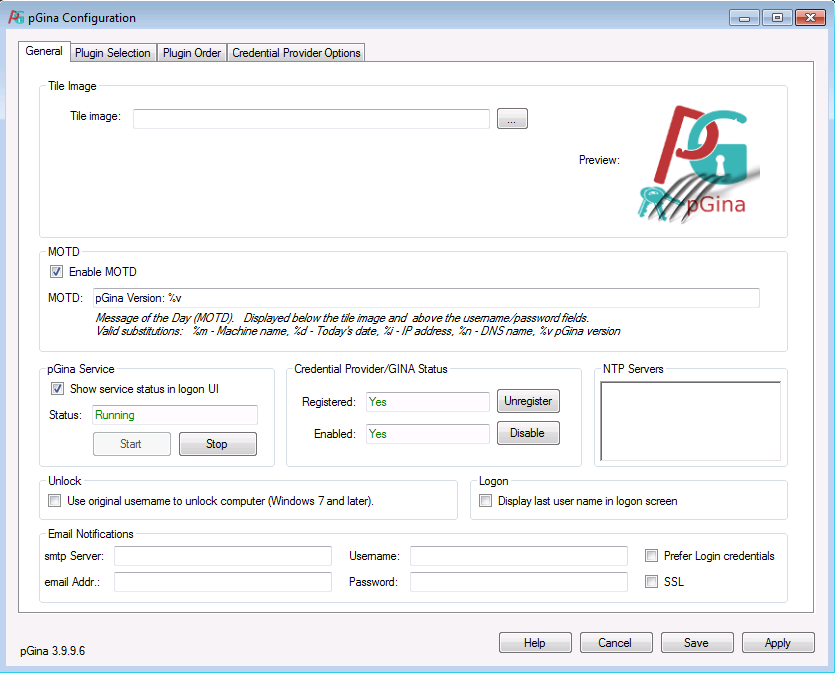
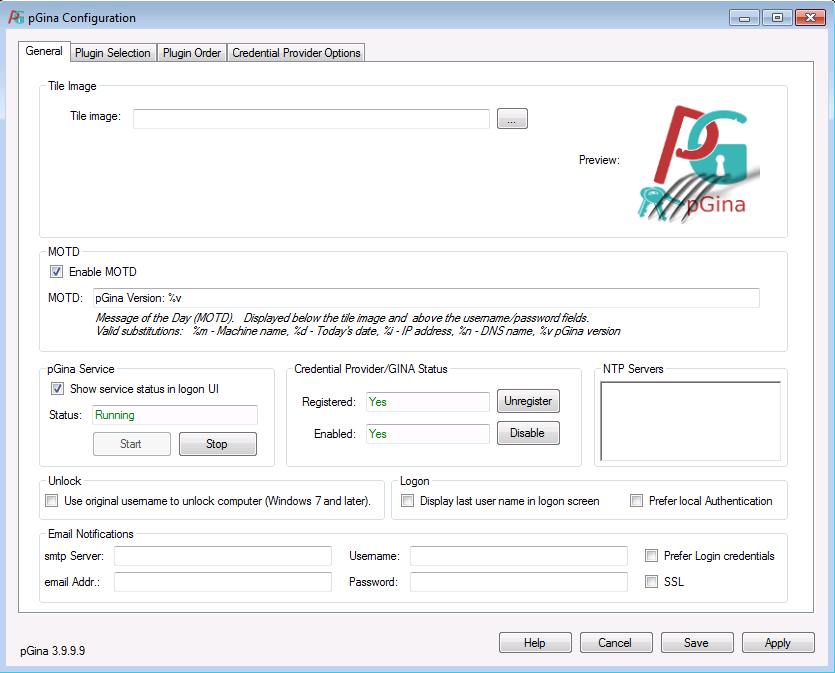
update doc related to login

Changed region(s): [[0.0623, 0.6865, 0.9341, 0.7801]]

diff --git a/documentation/user.html b/documentation/user.html
@@ -12,7 +12,7 @@
 <meta name="keywords" content="" />
 <meta name="description" content="" />
 
-<link rel="stylesheet" type="text/css" href="http://mutonufoai.github.io/pgina/default_doc.css" />
+<link rel="stylesheet" type="text/css" href="http://127.0.0.1:4000/default_doc.css" />
 
 </head>
 <body>
@@ -24,20 +24,20 @@
 			<h1>pGina fork</h1>
 			<h2>Open Source Windows Authentication</h2>
 		</div>
-		<div id="logo"><a href="http://mutonufoai.github.io/pgina/index.html"><img src="http://mutonufoai.github.io/pgina/images/pginalogo.png" /></a></div>
+		<div id="logo"><a href="http://127.0.0.1:4000/index.html"><img src="http://127.0.0.1:4000/images/pginalogo.png" /></a></div>
 	</div>
 
 	
 	<div id="menu">
 		<!-- HINT: Set the class of any menu link below to "active" to make it appear active -->
 		<ul>
-			<li><a href="http://mutonufoai.github.io/pgina/index.html">Home</a></li>
-			<li><a href="http://mutonufoai.github.io/pgina/download.html">Download</a></li>
-      <li><a href="http://mutonufoai.github.io/pgina/support.html">Support</a></li>
-      <li><a href="http://mutonufoai.github.io/pgina/documentation.html" class="active">Documentation</a></li>
-      <li><a href="http://mutonufoai.github.io/pgina/develop.html">Develop</a></li>
-      <li><a href="http://mutonufoai.github.io/pgina/faq.html">FAQ</a></li>
-      <li><a href="http://mutonufoai.github.io/pgina/thanks.html">Thanks</a></li>
+			<li><a href="http://127.0.0.1:4000/index.html">Home</a></li>
+			<li><a href="http://127.0.0.1:4000/download.html">Download</a></li>
+      <li><a href="http://127.0.0.1:4000/support.html">Support</a></li>
+      <li><a href="http://127.0.0.1:4000/documentation.html" class="active">Documentation</a></li>
+      <li><a href="http://127.0.0.1:4000/develop.html">Develop</a></li>
+      <li><a href="http://127.0.0.1:4000/faq.html">FAQ</a></li>
+      <li><a href="http://127.0.0.1:4000/thanks.html">Thanks</a></li>
 		</ul>
 	</div>
 
@@ -76,7 +76,7 @@
 
 <p>After installation, start the pGina configuration application. Verify that the pGina service is running and that the Credential Provider/GINA is installed and enabled.</p>
 
-<p><img src="http://mutonufoai.github.io/pgina/images/documentation/components_green_screen.png" alt="pgina Components Enabled" /></p>
+<p><img src="http://127.0.0.1:4000/images/documentation/components_green_screen.png" alt="pgina Components Enabled" /></p>
 
 <p>pGina will not function properly unless these components are working. More information about the Credential Provider and pGina service is provied in the next section.</p>
 
@@ -88,29 +88,69 @@
 
 <p>The diagram below represents a high-level picture of a typical logon process.</p>
 
-<p><img src="http://mutonufoai.github.io/pgina/images/documentation/pGina-logon-overview.png" alt="pGina logon diagram" /></p>
+<p><img src="http://127.0.0.1:4000/images/documentation/pGina-logon-overview.png" alt="pGina logon diagram" /></p>
 
-<p><span class='greenbg'>To distinguish between pGina and a nomal windows user account, every pGina user is marked with a user comment of<i>&quot;pGina created&quot;</i>. Only<i>&quot;pGina created&quot;</i>user accounts are touched by pGina, if that’s not the case then this particular account wont be altered by pGina. To go further, local non pGina users dont run through the plugin chain!</span></p>
+<p><span class='greenbg'>To distinguish between pGina and a nomal windows user accounts, every pGina user is marked with a user comment of<i>&quot;pGina created&quot;</i>. Only non existent (<a href='http://127.0.0.1:4000/documentation/plugins/local_machine.html'>LocalMachine plugin</a>) and<i>&quot;pGina created&quot;</i>user accounts are touched by pGina, if that’s not the case then this particular account wont be altered by pGina. To go further, local non pGina users and Domain users dont run through the plugin chain!</span></p>
 
 <p>The logon process proceeds as follows:</p>
 
 <ol>
 <li>The user enters their credentials at the pGina logon user interface. Note that this UI may be one of several options (called credential providers) presented to the user. For example, the user might be presented with several tiles, many of which are local accounts with only one being the pGina UI.</li>
 
-<li>The pGina credential provider (or GINA) passes the unaltered credentials to the pGina service. If the username is currently loggin off a relogin is denied. If the user is not a pGina user than he is processed by WinAPI authentication procedures, and if a user was already authenticated he will be also processed by the WinAPI. If nothing from above apply, than the service sends those credentials through the <a href="#plugins">plugin pipeline</a> described below. <strong>This stage potentially fails if you modified the username by using a plugin like <a href="http://mutonufoai.github.io/pgina/documentation/plugins/username_mod.html">Username Modification</a>!</strong></li>
+<li>The pGina credential provider (or GINA) passes the credentials to the pGina service. If the user is currently logging off a relogin is denied. If the user is not a pGina user than he is processed by WinAPI authentication procedures, and if a user was already authenticated he will be processed by the WinAPI as well. If nothing from above apply, than the service sends those credentials through the <a href="#plugins">plugin pipeline</a> described below. <strong>This stage potentially fails if you modified the username by using a plugin like <a href="http://127.0.0.1:4000/documentation/plugins/username_mod.html">Username Modification</a>!</strong></li>
 
 <li>After the credentials have been <a href="#plugins">processed by the plugins</a>, the pGina service sends a result (success/failure) along with a set of credentials (username/ password) back to the pGina CP. Note that these credentials may not be the same as those that were provided by the user. They may have been altered at some stage by one or more plugins.</li>
 
-<li>If the result returned from step three is success, the pGina credential provider passes the (possibly altered) credentials to Windows indicating a successful logon attempt. Note that pGina does not actually log the user on to the machine. It is the Windows OS itself that does that. This means that if a local account does not exist that matches the credentials, the logon will fail, even if the pGina plugins have registered success. Therefore, it is often the case that one of the plugins will be responsible for creating a local (often temporary) account. The plugin called “Local Machine” takes care of this in the Gateway stage. For details, see the <a href="http://mutonufoai.github.io/pgina/documentation/plugins/local_machine.html">documentation for the Local Machine plugin</a>.</li>
+<li>If the result returned from step three is success, the pGina credential provider passes the (possibly altered) credentials to Windows indicating a successful logon attempt. Note that pGina does not actually log the user on to the machine. It is the Windows OS itself that does that. This means that if a local account does not exist that matches the credentials, the logon will fail, even if the pGina plugins have registered success. Therefore, it is often the case that one of the plugins will be responsible for creating a local (often temporary) account. The plugin called “Local Machine” takes care of this in the Gateway stage. For details, see the <a href="http://127.0.0.1:4000/documentation/plugins/local_machine.html">documentation for the Local Machine plugin</a>.</li>
 </ol>
 
-<p>As indicated above, it is important to note that pGina does not actually log the user on to the computer. The Windows OS is still ultimately responsible for logging the user on to the machine and possibly creating a profile for the user. pGina’s job is to authenticate and authorize the user, and perform any other pre-logon actions that may be needed. This means that in order for a logon to be successful, a local account must exist that matches the credentails returned by the pGina CP (Credential Provider). In a typical case, pGina would be configured to create the local account prior to logon, and possibly delete that account after logoff (see the <a href="http://mutonufoai.github.io/pgina/documentation/plugins/local_machine.html">LocalMachine plugin</a>).</p>
+<p>As indicated above, it is important to note that pGina does not actually log the user on to the computer. The Windows OS is still ultimately responsible for logging the user on to the machine and possibly creating a profile for the user. pGina’s job is to authenticate and authorize the user, and perform any other pre-logon actions that may be needed. This means that in order for a logon to be successful, a local account must exist that matches the credentails returned by the pGina CP (Credential Provider). In a typical case, pGina would be configured to create the local account prior to logon, and possibly delete that account after logoff (see the <a href="http://127.0.0.1:4000/documentation/plugins/local_machine.html">LocalMachine plugin</a>).</p>
 
+<p>To explain the logon in a different way </p>
+
+<ul>
+<li>If a System is NOT member of a Domain
+<ul>
+<li>a user will be authenticated against the local system
+<ul>
+<li><b>exists</b> a user with that name on the system <b>incl. the comment &quot;pGina created&quot;</b> than he will be <b>processed by pGina</b></li>
+
+<li><b>exists</b> a user with that name on the system <b>without the comment &quot;pGina created&quot;</b> than he will be authenticated by the <b>WinAPI</b> and doesn’t go trough the pGina chain.</li>
+
+<li>exists <b>no user</b> with that name on the system than the logon will be <b>processed by pGina</b></li>
+</ul>
+</li>
+</ul>
+</li>
+
+<li>If a System IS member of a Domain
+<ul>
+<li>a user will be authenticated against the Domain</li>
+
+<li>if a user is providing a leading .\ , than he will be authenticated against the local system <a href="https://www.google.com/search?q=windows+force+local+login">google</a>
+<ul>
+<li>in this case, the same rules apply as if this system where NOT member of a Domain</li>
+</ul>
+</li>
+</ul>
+</li>
+</ul>
+
+<h3 id="what_username_formats_are_suported">What username formats are suported?</h3>
+
+<h4 id="user_principal_name">User Principal Name</h4>
+
+<p>User principal name (UPN) format is used to specify an Internet-style name, such as UserName@Example.Microsoft.com. The following table summarizes the parts of a UPN.</p>
+<table border='1'><tr><td>Part</td><td>Example</td></tr><tr><td><p>User account name. Also known as the logon name.</p></td><td><p><em>UserName</em></p></td></tr><tr><td><p>Separator. A character literal, the at sign (@).</p></td><td><p>@</p></td></tr><tr><td><p>UPN suffix. Also known as the domain name.</p></td><td><p><em>Example.Microsoft</em><strong>.com</strong></p></td></tr></table>
+<h4 id="downlevel_logon_name">Down-Level Logon Name</h4>
+
+<p>The down-level logon name format is used to specify a domain and a user account in that domain, for example, DOMAIN\UserName. The following table summarizes the parts of a down-level logon name.</p>
+<table border='1'><tr><th>Part</th><th scope='col'>Example</th></tr><tr><td><p>NetBIOS domain name.</p></td><td><p><em>DOMAIN</em></p></td></tr><tr><td><p>Separator. A character literal, the backslash (\).</p></td><td><p>&nbsp;\</p></td></tr><tr><td><p>User account name. Also known as the logon name.</p></td><td><p><em>UserName</em></p></td></tr></table>
 <h3 id="the_pgina_architecture">The pGina Architecture</h3>
 
 <p>pGina consists of two main components: the Credential Provider (or GINA), and the pGina service (which manages the plugins).</p>
 
-<p><img src="http://mutonufoai.github.io/pgina/images/documentation/pgina_components.png" alt="pGina components" /></p>
+<p><img src="http://127.0.0.1:4000/images/documentation/pgina_components.png" alt="pGina components" /></p>
 
 <p>The CP augments or replaces the default Windows authentication user interface. It plugs-in to the Windows system and can configure the UI that is displayed at login time (or during unlock, UAC control, etc.). The pGina CP, however, does very little on its own. It simply receives the user’s credentials and passes them along to the pGina service via a named pipe, and then waits for a response from the service. User authentication/authorization is instead managed by the plugins that run within the pGina service.</p>
 
@@ -118,7 +158,7 @@
 
 <h3 id="configuration">Configuration</h3>
 
-<p><img src="http://mutonufoai.github.io/pgina/images/documentation/pgina_configuration_global.png" alt="pGina stages" /></p>
+<p><img src="http://127.0.0.1:4000/images/documentation/pgina_configuration_global.png" alt="pGina stages" /></p>
 
 <ul>
 <li><strong>Tile Image</strong> - You can set your own Image here. 200x200 BMP</li>
@@ -137,7 +177,17 @@
 </ul>
 </li>
 
-<li><strong>Logon</strong> - If enabled the last successfully logged in username will be displayed by pGina</li>
+<li><strong>Logon</strong>
+<ul>
+<li>Display last user name in logon screen - If enabled the last successfully logged in username will be displayed by pGina</li>
+
+<li>Prefer local Authentication - First read <a href="#how_pgina_works">How pGina Works</a>. It’s only usefull in a Domain environment! If enabled the logon routine is reversed.
+<ul>
+<li>A user can logon locally without providing a leading .\ but if you want to logon with an Domain user account you need to provide the domain like : domain\user</li>
+</ul>
+</li>
+</ul>
+</li>
 
 <li><strong>Email Notifications</strong> - If something goes wrong you can enable email notifications here
 <ul>
@@ -160,7 +210,7 @@
 
 <p>pGina manages the logon process by delegating the work to a set of zero or more plugins. Plugins have the job of deciding whether or not the user is who she says she is (authentication), whether the user should be granted access (authorization), and taking other login-time actions. The process involves a pipeline consisting of three main stages as illustrated in the following diagram.</p>
 
-<p><img src="http://mutonufoai.github.io/pgina/images/documentation/pgina_stages.png" alt="pGina stages" /></p>
+<p><img src="http://127.0.0.1:4000/images/documentation/pgina_stages.png" alt="pGina stages" /></p>
 
 <p>Each stage involves zero or more plugins, and a given plugin may be involved in multiple stages. After the user provides his/her credentials, pGina passes through the three stages one at a time, in the order shown above. Each stage may succeed or fail depending on the results of the plugins involved. The purpose of each stage is summarized below.</p>
 
@@ -197,7 +247,7 @@
 
 <p>During the execution of the above pipeline, pGina maintains some information about the user. This includes user-name, password, group membership and other information. This information can be altered by plugins during the pipeline, and/or used by plugins to modify the state of the machine. For example, plugins may add or remove groups, alter the username or password, or a plugin might attempt to create a local account using this information. This means that the order that the plugins execute within each stage of the pipeline is important (see below), and different orders may produce different results. One must be careful to configure your plugins in the order that makes sense for your setup. The final values of username/password/domain are passed along to Windows to complete the logon process.</p>
 
-<p>In a typical setup one wants to make sure that a local account exists or is created at the end of the pipeline. To do so, one should configure the LocalMachine plugin so that it executes last in the Gateway stage. It is the Gateway stage of the <a href="http://mutonufoai.github.io/pgina/documentation/plugins/local_machine.html">LocalMachine</a> plugin that creates (if necessary) local accounts. If the <a href="http://mutonufoai.github.io/pgina/documentation/plugins/local_machine.html">LocalMachine</a> plugin executes earlier, it may miss important information for the local account (such as group membership).</p>
+<p>In a typical setup one wants to make sure that a local account exists or is created at the end of the pipeline. To do so, one should configure the LocalMachine plugin so that it executes last in the Gateway stage. It is the Gateway stage of the <a href="http://127.0.0.1:4000/documentation/plugins/local_machine.html">LocalMachine</a> plugin that creates (if necessary) local accounts. If the <a href="http://127.0.0.1:4000/documentation/plugins/local_machine.html">LocalMachine</a> plugin executes earlier, it may miss important information for the local account (such as group membership).</p>
 
 <h3 id="event_notifications">Event Notifications</h3>
 
@@ -213,19 +263,19 @@
 
 <p>To configure a plugin, double click on it or select it and click on “Configure..”. The plugin’s configuration dialog will appear. The options are plugin specific, and you should refer to the documentation for each plugin for details about configuration of an individual plugin.</p>
 
-<p><img src="http://mutonufoai.github.io/pgina/images/documentation/pgina_configuration_plugins.png" alt="pGina stages" /></p>
+<p><img src="http://127.0.0.1:4000/images/documentation/pgina_configuration_plugins.png" alt="pGina stages" /></p>
 
 <h2 id="ordering_plugins">Ordering Plugins</h2>
 
 <p>Under the “Plugin Order” tab, you can determine the order that each plugin is invoked. There is a list for each pGina stage, and you can re-order the plugins within each list.</p>
 
-<p><img src="http://mutonufoai.github.io/pgina/images/documentation/pgina_configuration_pluginorder.png" alt="pGina stages" /></p>
+<p><img src="http://127.0.0.1:4000/images/documentation/pgina_configuration_pluginorder.png" alt="pGina stages" /></p>
 
 <h2 id="credential_provider_filter">Credential Provider Filter</h2>
 
 <p>Credential Providers can be filtered for the Logon, Unlock, Change Password and Cred UI screens. Installed Providers are listed under <i>Credential Provider</i>. If you want pGina to be the only Credential Provider available on the logon screen than you need to enable the <i>Logon</i> checkbox for the <i>PasswordProvider</i>.</p>
 
-<p><img src="http://mutonufoai.github.io/pgina/images/documentation/pgina_configuration_providerfilter.png" alt="pGina stages" /></p>
+<p><img src="http://127.0.0.1:4000/images/documentation/pgina_configuration_providerfilter.png" alt="pGina stages" /></p>
 
 <h2 id="logging">Logging</h2>
 

diff --git a/documentation/login.html b/documentation/login.html
@@ -12,7 +12,7 @@
 <meta name="keywords" content="" />
 <meta name="description" content="" />
 
-<link rel="stylesheet" type="text/css" href="http://mutonufoai.github.io/pgina/default_doc.css" />
+<link rel="stylesheet" type="text/css" href="http://127.0.0.1:4000/default_doc.css" />
 
 </head>
 <body>
@@ -24,20 +24,20 @@
 			<h1>pGina fork</h1>
 			<h2>Open Source Windows Authentication</h2>
 		</div>
-		<div id="logo"><a href="http://mutonufoai.github.io/pgina/index.html"><img src="http://mutonufoai.github.io/pgina/images/pginalogo.png" /></a></div>
+		<div id="logo"><a href="http://127.0.0.1:4000/index.html"><img src="http://127.0.0.1:4000/images/pginalogo.png" /></a></div>
 	</div>
 
 	
 	<div id="menu">
 		<!-- HINT: Set the class of any menu link below to "active" to make it appear active -->
 		<ul>
-			<li><a href="http://mutonufoai.github.io/pgina/index.html">Home</a></li>
-			<li><a href="http://mutonufoai.github.io/pgina/download.html">Download</a></li>
-      <li><a href="http://mutonufoai.github.io/pgina/support.html">Support</a></li>
-      <li><a href="http://mutonufoai.github.io/pgina/documentation.html" class="active">Documentation</a></li>
-      <li><a href="http://mutonufoai.github.io/pgina/develop.html">Develop</a></li>
-      <li><a href="http://mutonufoai.github.io/pgina/faq.html">FAQ</a></li>
-      <li><a href="http://mutonufoai.github.io/pgina/thanks.html">Thanks</a></li>
+			<li><a href="http://127.0.0.1:4000/index.html">Home</a></li>
+			<li><a href="http://127.0.0.1:4000/download.html">Download</a></li>
+      <li><a href="http://127.0.0.1:4000/support.html">Support</a></li>
+      <li><a href="http://127.0.0.1:4000/documentation.html" class="active">Documentation</a></li>
+      <li><a href="http://127.0.0.1:4000/develop.html">Develop</a></li>
+      <li><a href="http://127.0.0.1:4000/faq.html">FAQ</a></li>
+      <li><a href="http://127.0.0.1:4000/thanks.html">Thanks</a></li>
 		</ul>
 	</div>
 
@@ -52,44 +52,34 @@
 
 <h2 id="boot">Boot</h2>
 
-<p><img alt='pGina boot' src='http://mutonufoai.github.io/pgina/images/documentation/login_start.png' style='float:right' /></p>
+<p><img alt='pGina boot' src='http://127.0.0.1:4000/images/documentation/login_start.png' style='float:right' /></p>
 
 <p>Instead of showing a login mask as soon as possible, this fork will wait for the pGina service to came up until presenting a login screen. The reason is, without a running pGina service only local administrators are able to login! With that in mind I decided to show a message box until the pgina service is up and running, at least for one minute. <br style='clear:both' /></p>
 
-<p><img alt='pGina service failed' src='http://mutonufoai.github.io/pgina/images/documentation/login_start_failed.png' style='float:left' /></p>
+<p><img alt='pGina service failed' src='http://127.0.0.1:4000/images/documentation/login_start_failed.png' style='float:left' /></p>
 
 <p>If a minute has past and the pGina service is still down the login mask is shown, but with an exclamation mark logo. There can be a lot of reasons, like a slow machine, AV scanner, …. <br style='clear:both' /></p>
 
 <p><span style='float:right'>
 As soon as the pGina service is up the logo is shown, and thats the normal case.
-<img alt='pGina boot' src='http://mutonufoai.github.io/pgina/images/documentation/login_start_ok.png' style='vertical-align:text-top' /></span></p>
+<img alt='pGina boot' src='http://127.0.0.1:4000/images/documentation/login_start_ok.png' style='vertical-align:text-top' /></span></p>
 
 <p><br style='clear:both' /></p>
 
 <h2 id="login">Login</h2>
 
-<p>The login process is the same as always, but this fork will show another message box saying that the login is in process. <img alt='pGina boot' src='http://mutonufoai.github.io/pgina/images/documentation/login_running.png' style='float:left' /></p>
+<p>The login process is the same as always, but this fork will show another message box saying that the login is in process. <img alt='pGina boot' src='http://127.0.0.1:4000/images/documentation/login_running.png' style='float:left' /></p>
 
 <p><span style='float:right'>
 If you try to login while the pGina service is down you are limited to local administrators!
-<img alt='pGina service failed' src='http://mutonufoai.github.io/pgina/images/documentation/login_start_failed.png' style='vertical-align:text-top' /></span></p>
+<img alt='pGina service failed' src='http://127.0.0.1:4000/images/documentation/login_start_failed.png' style='vertical-align:text-top' /></span></p>
 
 <p><br style='clear:both' /></p>
 
 <p>If a user tries to login from such a stage he will receive an error message like</p>
 
-<p><img src="http://mutonufoai.github.io/pgina/images/documentation/login_failed.png" alt="user login failed" /></p>
+<p><img src="http://127.0.0.1:4000/images/documentation/login_failed.png" alt="user login failed" /></p>
 
-<h2 id="user_name_formats">User Name Formats</h2>
-
-<h3 id="user_principal_name">User Principal Name</h3>
-
-<p>User principal name (UPN) format is used to specify an Internet-style name, such as UserName@Example.Microsoft.com. The following table summarizes the parts of a UPN.</p>
-<table border='1'><tr><td>Part</td><td>Example</td></tr><tr><td><p>User account name. Also known as the logon name.</p></td><td><p><em>UserName</em></p></td></tr><tr><td><p>Separator. A character literal, the at sign (@).</p></td><td><p>@</p></td></tr><tr><td><p>UPN suffix. Also known as the domain name.</p></td><td><p><em>Example.Microsoft</em><strong>.com</strong></p></td></tr></table>
-<h3 id="downlevel_logon_name">Down-Level Logon Name</h3>
-
-<p>The down-level logon name format is used to specify a domain and a user account in that domain, for example, DOMAIN\UserName. The following table summarizes the parts of a down-level logon name.</p>
-<table border='1'><tr><th>Part</th><th scope='col'>Example</th></tr><tr><td><p>NetBIOS domain name.</p></td><td><p><em>DOMAIN</em></p></td></tr><tr><td><p>Separator. A character literal, the backslash (\).</p></td><td><p>&nbsp;\</p></td></tr><tr><td><p>User account name. Also known as the logon name.</p></td><td><p><em>UserName</em></p></td></tr></table>
 <h2 id="facts">Facts</h2>
 
 <p>While the system is booting</p>
